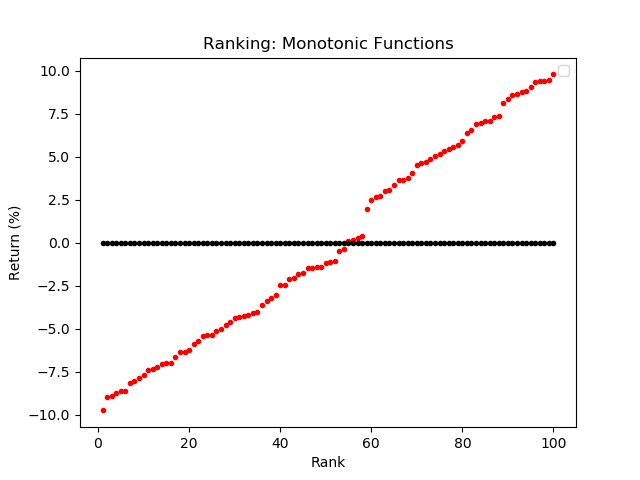
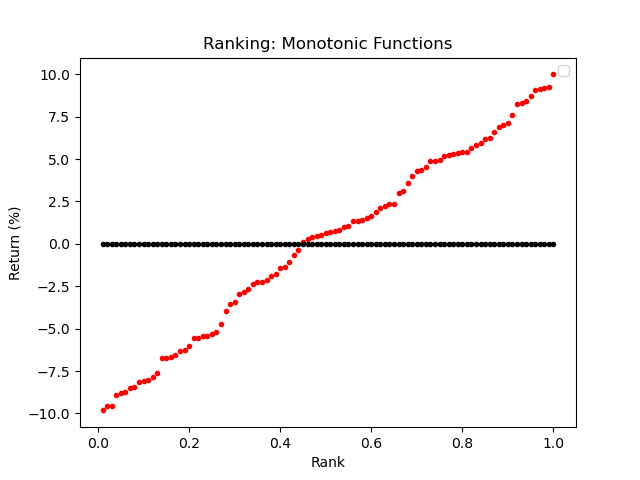
Reform monotonic ranking function

diff --git a/src/finance-honours.py b/src/finance-honours.py
@@ -1706,14 +1706,15 @@ def ranking_function():
     
     # Creates an ordered, random array of proxy returns (%)
     num = 100
-    returns_uniform =np.sort(np.arange(10,-10,-0.2))
+    returns_uniform =np.sort(np.arange(-10,10,-0.2))
     print('returns',returns_uniform)
     print('returns size',np.size(returns_uniform))
     returns = np.sort(np.random.uniform(low=-10.0, high=10.0, size=(num,)))
     base = np.zeros(num)
     ones = np.ones(num)
     # Creates rank array
-    rank = np.array(list(range(1,len(returns)+ 1)))/100
+    rank = np.linspace(num,0,-1)
+    # rank = np.array(list(range(1,len(returns)+ 1)))
     # Create weights
     weights  = returns/transpose(ones)
     print('weights',weights)
